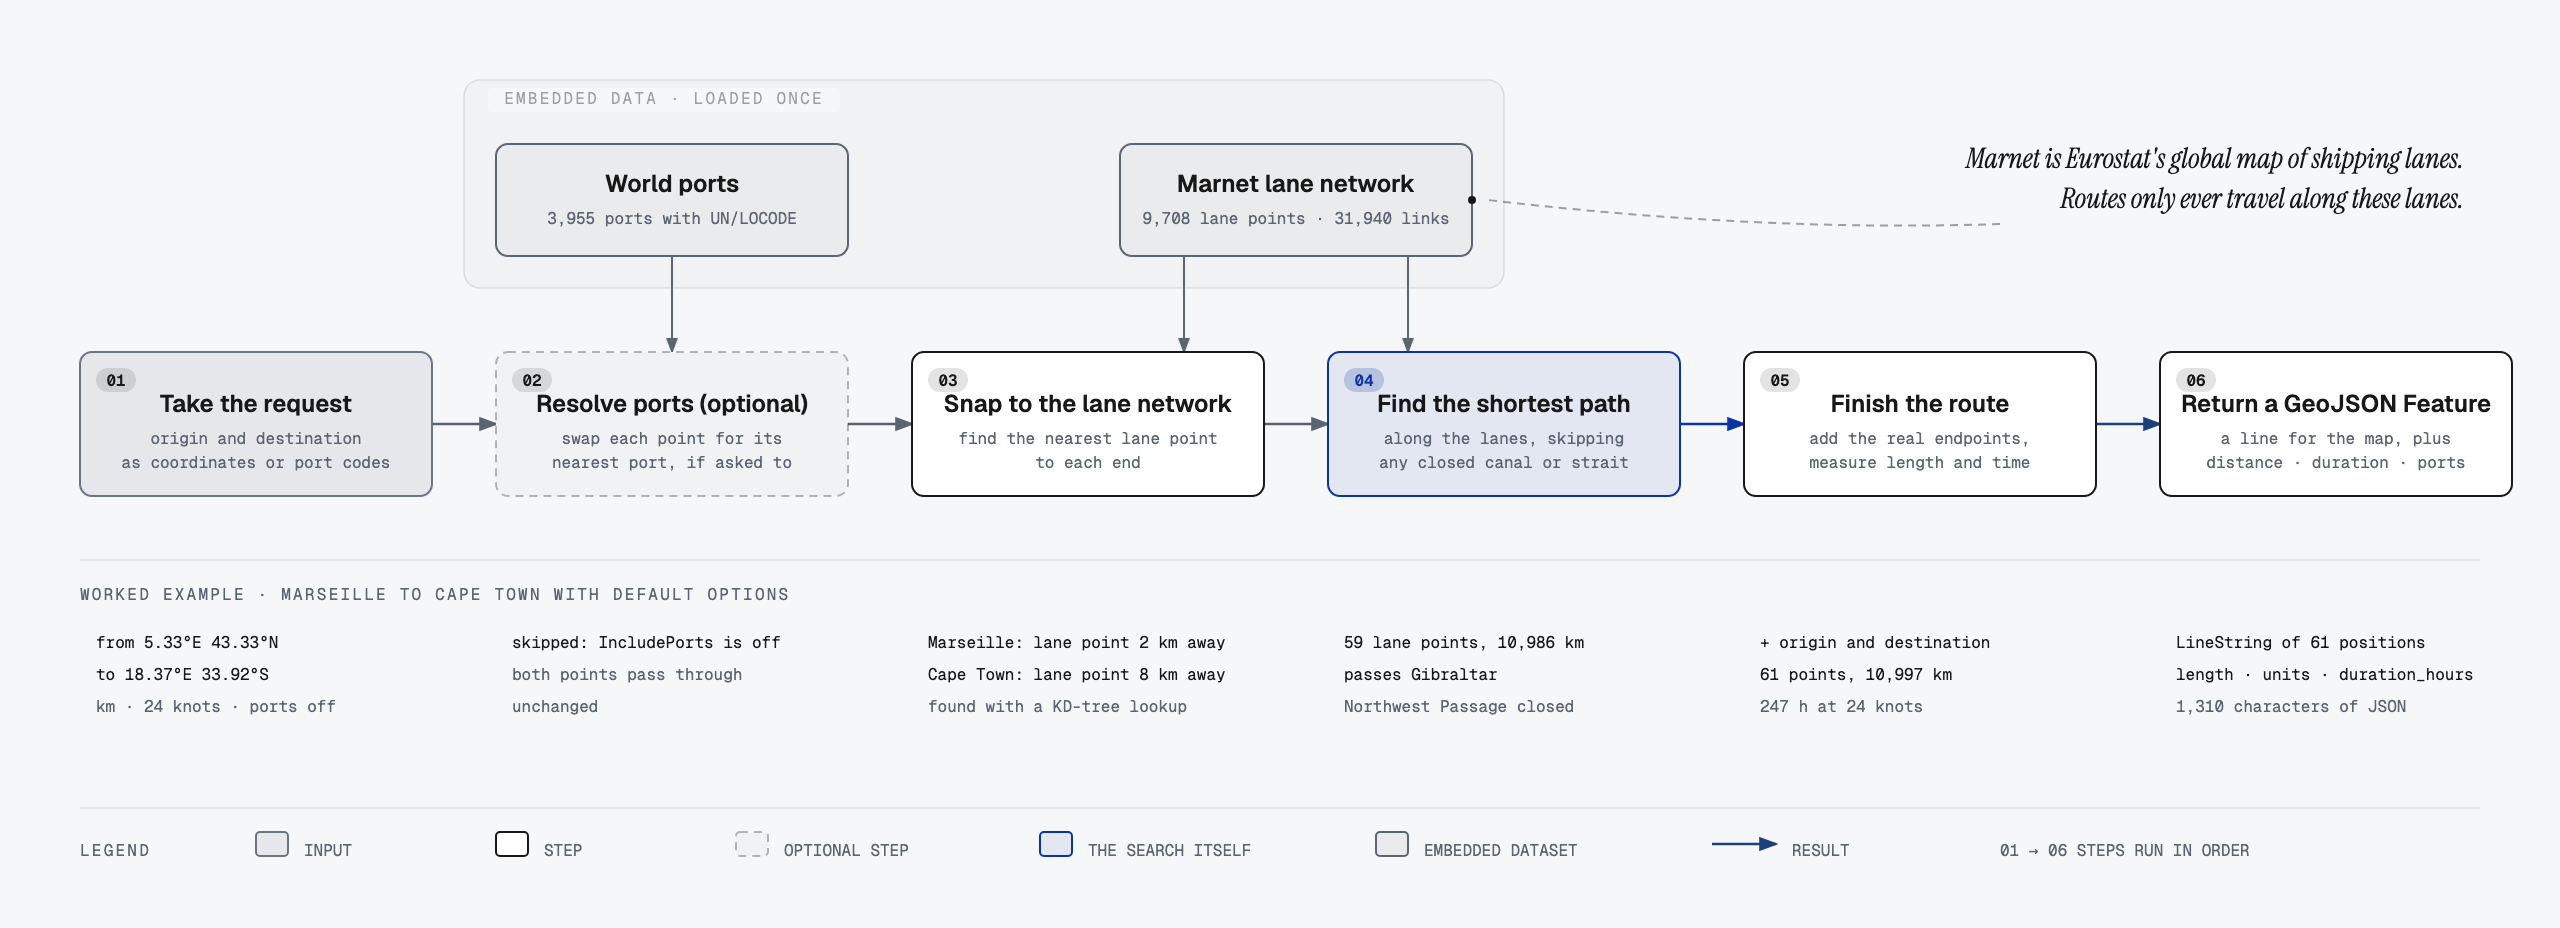
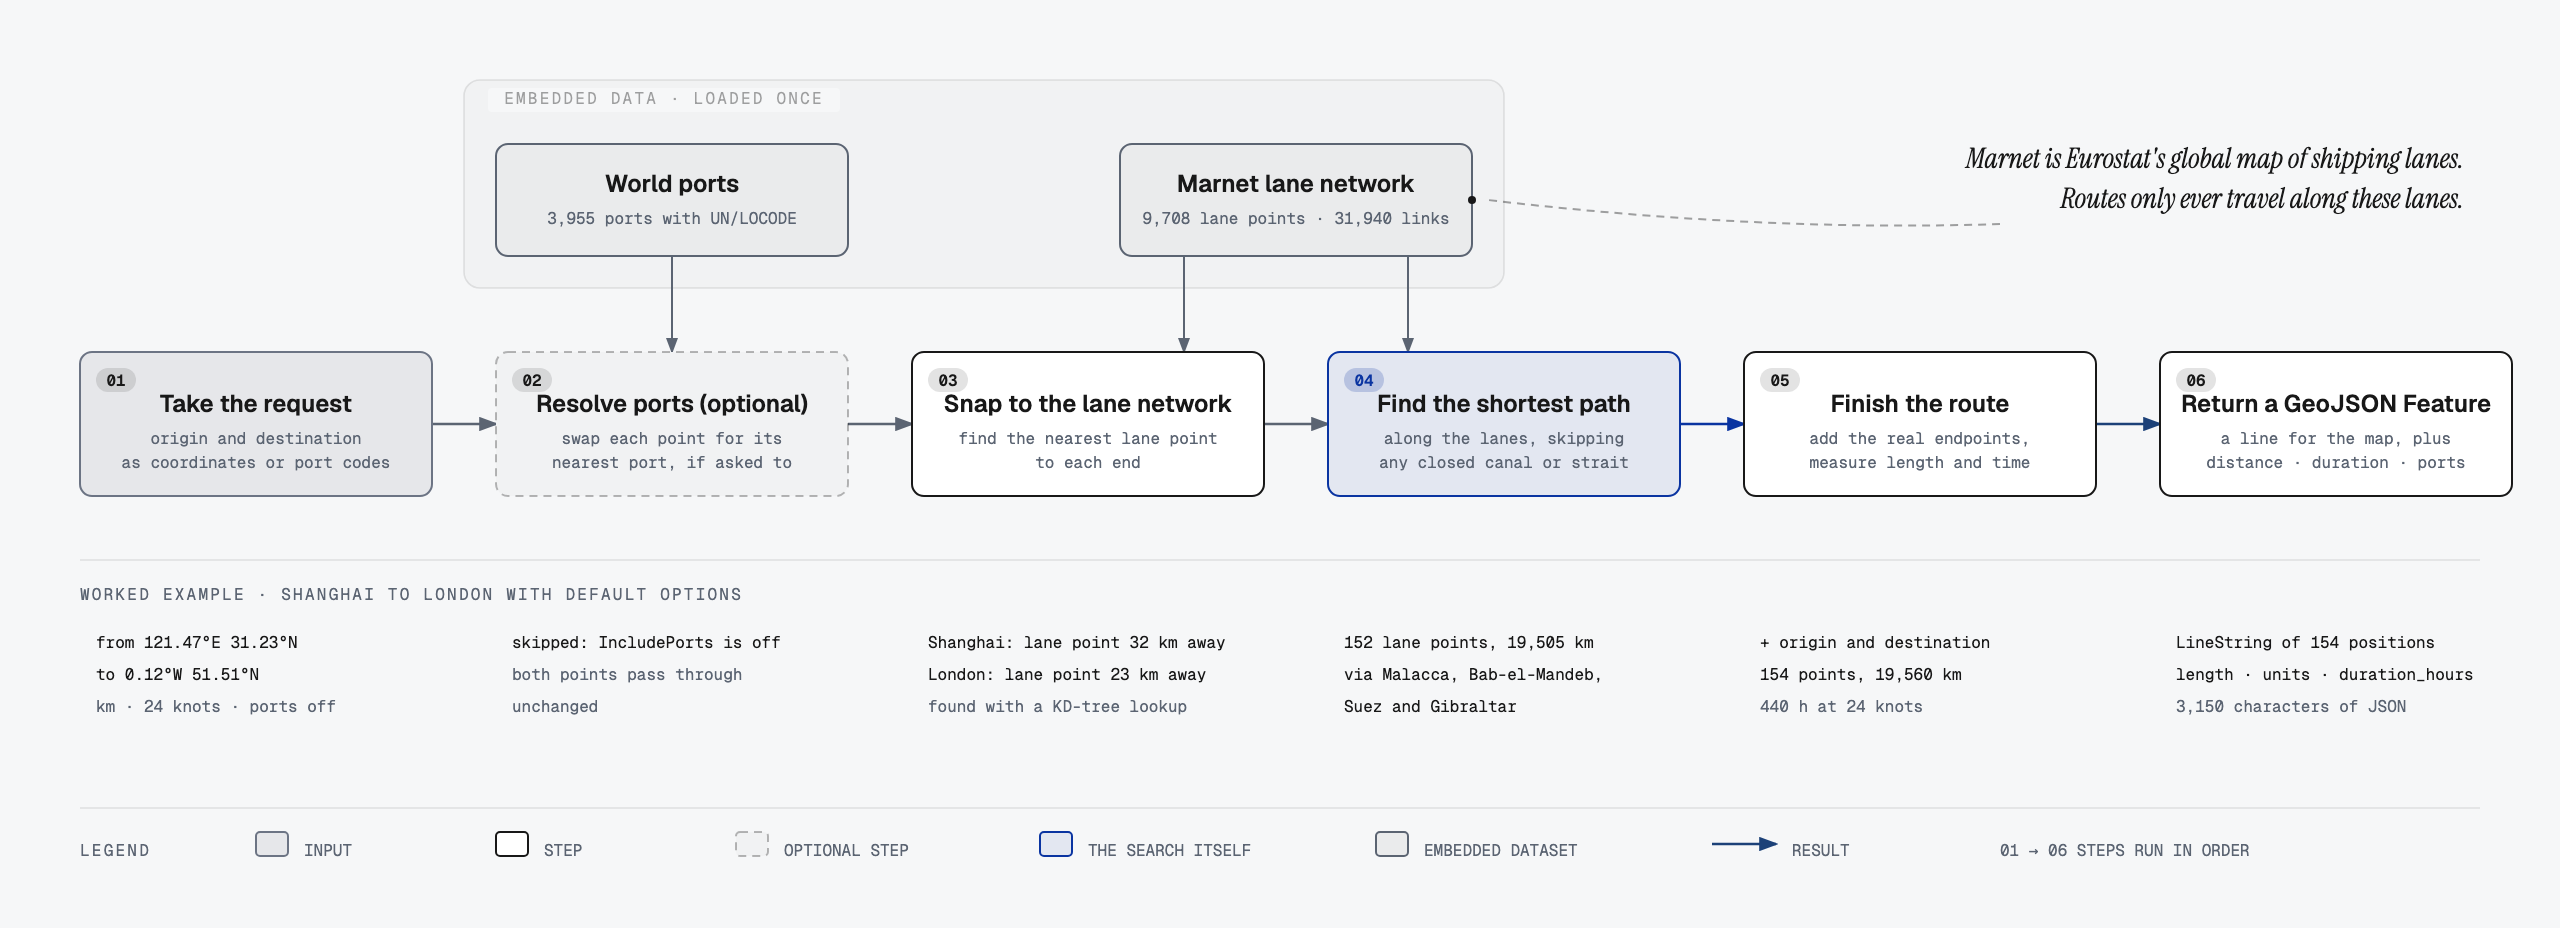
Use Shanghai to London as the pipeline diagram's worked example

diff --git a/docs/diagrams/routing-pipeline.html b/docs/diagrams/routing-pipeline.html
@@ -55,7 +55,7 @@
 
     <svg viewBox="0 0 1280 464" xmlns="http://www.w3.org/2000/svg" role="img" aria-labelledby="routing-pipeline-title routing-pipeline-desc">
       <title id="routing-pipeline-title">SeaRoute.Net routing pipeline</title>
-      <desc id="routing-pipeline-desc">Six numbered steps from left to right: take the request, optionally resolve ports, snap each point to the shipping-lane network, find the shortest path along the lanes avoiding closed passages, finish the route by adding the endpoints and measuring length and time, and return a GeoJSON feature. Two embedded datasets feed the steps: world ports and the Marnet lane network. A strip below follows a Marseille to Cape Town request through every step.</desc>
+      <desc id="routing-pipeline-desc">Six numbered steps from left to right: take the request, optionally resolve ports, snap each point to the shipping-lane network, find the shortest path along the lanes avoiding closed passages, finish the route by adding the endpoints and measuring length and time, and return a GeoJSON feature. Two embedded datasets feed the steps: world ports and the Marnet lane network. A strip below follows a Shanghai to London request through every step.</desc>
       <defs>
         <marker id="arrow" markerWidth="8" markerHeight="6" refX="7" refY="3" orient="auto"><polygon points="0 0, 8 3, 0 6" fill="#5b6472"/></marker>
         <marker id="arrow-accent" markerWidth="8" markerHeight="6" refX="7" refY="3" orient="auto"><polygon points="0 0, 8 3, 0 6" fill="#0a34a1"/></marker>
@@ -155,31 +155,31 @@
 
       <!-- Worked example strip, one column under each step -->
       <line x1="40" y1="280" x2="1240" y2="280" stroke="rgba(24,24,24,0.10)" stroke-width="0.8"/>
-      <text x="40" y="300" fill="#5b6472" font-size="8" font-family="'Geist Mono', monospace" letter-spacing="0.14em">WORKED EXAMPLE · MARSEILLE TO CAPE TOWN WITH DEFAULT OPTIONS</text>
+      <text x="40" y="300" fill="#5b6472" font-size="8" font-family="'Geist Mono', monospace" letter-spacing="0.14em">WORKED EXAMPLE · SHANGHAI TO LONDON WITH DEFAULT OPTIONS</text>
 
-      <text x="48" y="324" fill="#181818" font-size="8" font-family="'Geist Mono', monospace">from 5.33°E 43.33°N</text>
-      <text x="48" y="340" fill="#181818" font-size="8" font-family="'Geist Mono', monospace">to 18.37°E 33.92°S</text>
+      <text x="48" y="324" fill="#181818" font-size="8" font-family="'Geist Mono', monospace">from 121.47°E 31.23°N</text>
+      <text x="48" y="340" fill="#181818" font-size="8" font-family="'Geist Mono', monospace">to 0.12°W 51.51°N</text>
       <text x="48" y="356" fill="#5b6472" font-size="8" font-family="'Geist Mono', monospace">km · 24 knots · ports off</text>
 
       <text x="256" y="324" fill="#181818" font-size="8" font-family="'Geist Mono', monospace">skipped: IncludePorts is off</text>
       <text x="256" y="340" fill="#5b6472" font-size="8" font-family="'Geist Mono', monospace">both points pass through</text>
       <text x="256" y="356" fill="#5b6472" font-size="8" font-family="'Geist Mono', monospace">unchanged</text>
 
-      <text x="464" y="324" fill="#181818" font-size="8" font-family="'Geist Mono', monospace">Marseille: lane point 2 km away</text>
-      <text x="464" y="340" fill="#181818" font-size="8" font-family="'Geist Mono', monospace">Cape Town: lane point 8 km away</text>
+      <text x="464" y="324" fill="#181818" font-size="8" font-family="'Geist Mono', monospace">Shanghai: lane point 32 km away</text>
+      <text x="464" y="340" fill="#181818" font-size="8" font-family="'Geist Mono', monospace">London: lane point 23 km away</text>
       <text x="464" y="356" fill="#5b6472" font-size="8" font-family="'Geist Mono', monospace">found with a KD-tree lookup</text>
 
-      <text x="672" y="324" fill="#181818" font-size="8" font-family="'Geist Mono', monospace">59 lane points, 10,986 km</text>
-      <text x="672" y="340" fill="#181818" font-size="8" font-family="'Geist Mono', monospace">passes Gibraltar</text>
-      <text x="672" y="356" fill="#5b6472" font-size="8" font-family="'Geist Mono', monospace">Northwest Passage closed</text>
+      <text x="672" y="324" fill="#181818" font-size="8" font-family="'Geist Mono', monospace">152 lane points, 19,505 km</text>
+      <text x="672" y="340" fill="#181818" font-size="8" font-family="'Geist Mono', monospace">via Malacca, Bab-el-Mandeb,</text>
+      <text x="672" y="356" fill="#181818" font-size="8" font-family="'Geist Mono', monospace">Suez and Gibraltar</text>
 
       <text x="880" y="324" fill="#181818" font-size="8" font-family="'Geist Mono', monospace">+ origin and destination</text>
-      <text x="880" y="340" fill="#181818" font-size="8" font-family="'Geist Mono', monospace">61 points, 10,997 km</text>
-      <text x="880" y="356" fill="#5b6472" font-size="8" font-family="'Geist Mono', monospace">247 h at 24 knots</text>
+      <text x="880" y="340" fill="#181818" font-size="8" font-family="'Geist Mono', monospace">154 points, 19,560 km</text>
+      <text x="880" y="356" fill="#5b6472" font-size="8" font-family="'Geist Mono', monospace">440 h at 24 knots</text>
 
-      <text x="1088" y="324" fill="#181818" font-size="8" font-family="'Geist Mono', monospace">LineString of 61 positions</text>
+      <text x="1088" y="324" fill="#181818" font-size="8" font-family="'Geist Mono', monospace">LineString of 154 positions</text>
       <text x="1088" y="340" fill="#181818" font-size="8" font-family="'Geist Mono', monospace">length · units · duration_hours</text>
-      <text x="1088" y="356" fill="#5b6472" font-size="8" font-family="'Geist Mono', monospace">1,310 characters of JSON</text>
+      <text x="1088" y="356" fill="#5b6472" font-size="8" font-family="'Geist Mono', monospace">3,150 characters of JSON</text>
 
       <!-- Legend strip -->
       <line x1="40" y1="404" x2="1240" y2="404" stroke="rgba(24,24,24,0.10)" stroke-width="0.8"/>

diff --git a/README.md b/README.md
@@ -45,14 +45,14 @@ Console.WriteLine($"{route.Properties.Length:N0} {route.Properties.Units}, {rout
 Every request goes through the same six steps, in order. The datasets are decompressed and indexed once on first use, then shared read-only by every thread.
 
 <p align="center">
-  <img src="docs/diagrams/routing-pipeline.png" alt="SeaRoute.Net routing pipeline in six numbered steps: take the request, optionally resolve ports, snap each end to the nearest shipping-lane point, find the shortest path along the lanes avoiding closed passages, add the real endpoints and measure length and time, return a GeoJSON feature. A strip below follows Marseille to Cape Town through each step." width="100%">
+  <img src="docs/diagrams/routing-pipeline.png" alt="SeaRoute.Net routing pipeline in six numbered steps: take the request, optionally resolve ports, snap each end to the nearest shipping-lane point, find the shortest path along the lanes avoiding closed passages, add the real endpoints and measure length and time, return a GeoJSON feature. A strip below follows Shanghai to London through each step." width="100%">
 </p>
 
 1. **Take the request.** An origin and a destination, as coordinates or UN/LOCODE port codes, plus options such as units, vessel speed and closed passages.
 2. **Resolve ports** only if `IncludePorts` is set. Each end is swapped for its nearest port from the embedded list of 3,955, optionally limited to container terminals or a country.
-3. **Snap to the lane network.** Each end is matched to the nearest point on Marnet, Eurostat's map of shipping lanes, using a KD-tree. Marseille lands 2 km from its lane point, Cape Town 8 km.
-4. **Find the shortest path** along the lanes with bidirectional Dijkstra, or A* on request. Lane links through a closed canal or strait are skipped; the Northwest Passage is closed by default. Marseille to Cape Town gives 59 lane points over 10,986 km, passing Gibraltar.
-5. **Finish the route.** With `AppendOriginDestination` the real endpoints are added, longitudes are unwrapped across the antimeridian, and length and duration are measured: 61 points, 10,997 km, 247 hours at 24 knots.
+3. **Snap to the lane network.** Each end is matched to the nearest point on Marnet, Eurostat's map of shipping lanes, using a KD-tree. Shanghai's request point is 32 km from its lane point, London's 23 km.
+4. **Find the shortest path** along the lanes with bidirectional Dijkstra, or A* on request. Lane links through a closed canal or strait are skipped; the Northwest Passage is closed by default. Shanghai to London gives 152 lane points over 19,505 km, through Malacca, Bab-el-Mandeb, Suez and Gibraltar.
+5. **Finish the route.** With `AppendOriginDestination` the real endpoints are added, longitudes are unwrapped across the antimeridian, and length and duration are measured: 154 points, 19,560 km, 440 hours at 24 knots.
 6. **Return a GeoJSON Feature**: a LineString for the map plus distance, units, duration, the ports used and the passages traversed.
 
 Source: [docs/diagrams/routing-pipeline.svg](docs/diagrams/routing-pipeline.svg) (vector) and [routing-pipeline.html](docs/diagrams/routing-pipeline.html).
